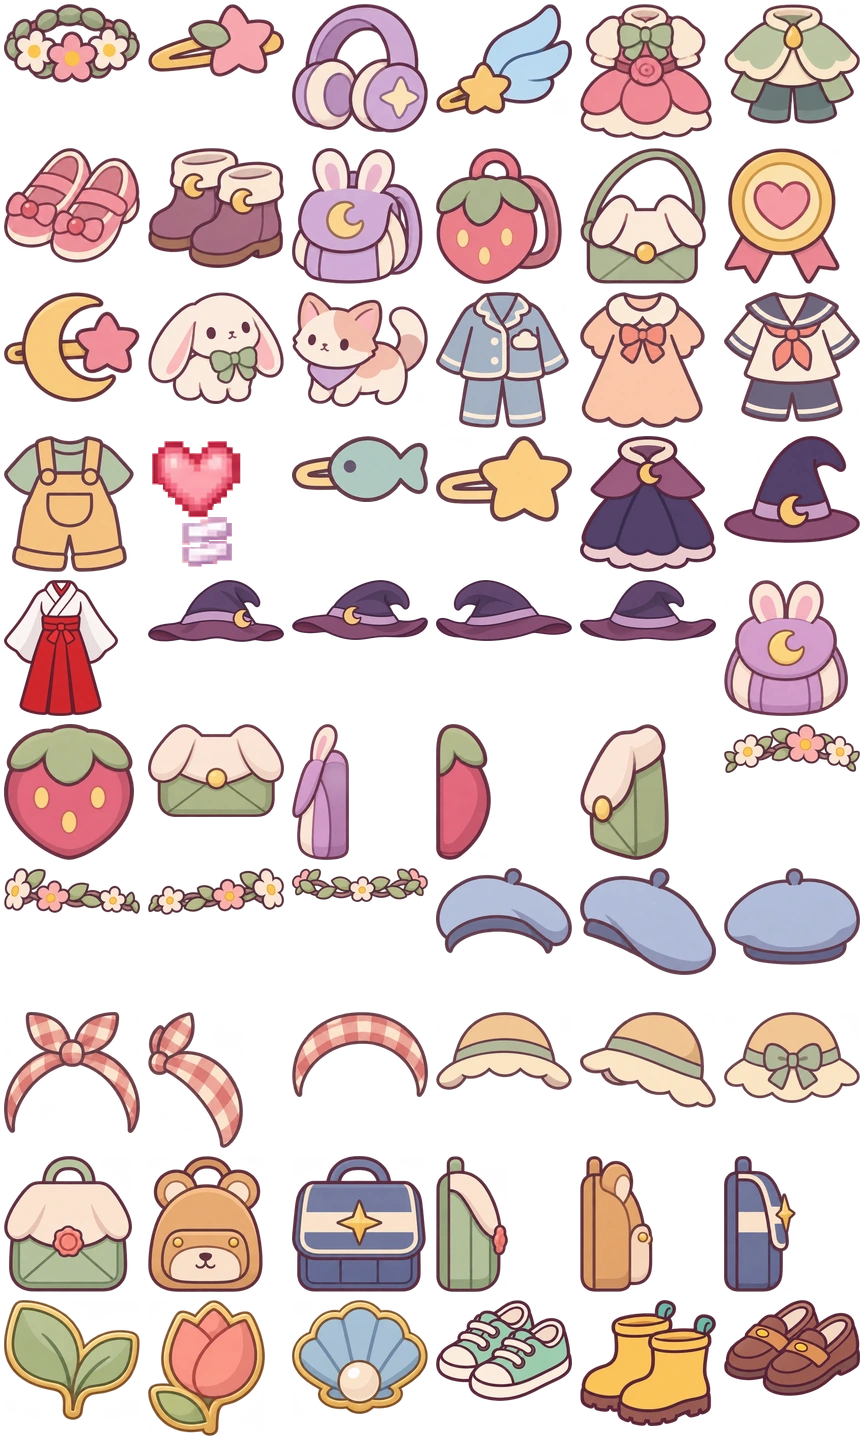
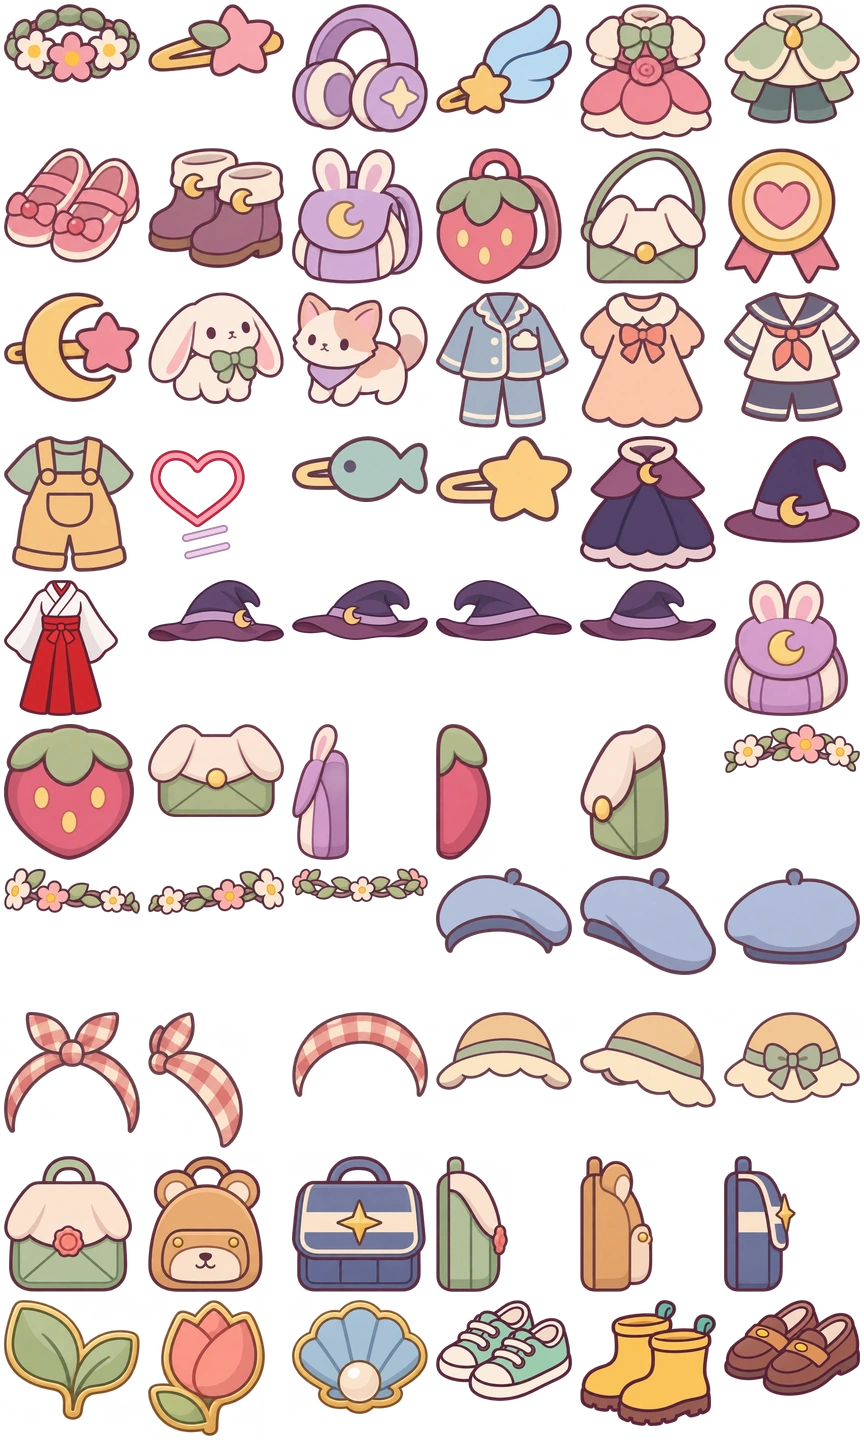
统一佩戴、衣橱和邀请插画上的镂空爱心发夹

Changed region(s): [[0.1562, 0.2812, 0.2812, 0.4062]]

diff --git a/src/items.ts b/src/items.ts
@@ -148,7 +148,7 @@ export const ITEMS: Record<
   apricotNightgown: { name: "杏桃晚安裙", slot: "clothes", description: "圆圆的奶油领下系着一枚小蝴蝶结，裙摆刚好盖过膝头。", source: "初始衣橱" },
   sailorSet: { name: "海盐水手装", slot: "clothes", description: "海军蓝水手领，珊瑚红领巾，一条能迈开步子的短裤。", source: "初始衣橱" },
   honeyOveralls: { name: "麦芽背带裤", slot: "clothes", description: "麦芽色背带裤罩着鼠尾草绿短袖，胸前口袋留给路上捡的小物。", source: "初始衣橱" },
-  heartClip: { name: "爱心发夹", slot: "hair", description: "芙芙常戴的小爱心，下面别着两根淡紫发卡。", source: "初始衣橱" },
+  heartClip: { name: "爱心发夹", slot: "hair", description: "玫红色的心形细框里透出一缕粉发，下面别着两根淡紫发卡。", source: "初始衣橱" },
   fishClip: { name: "小鱼发夹", slot: "hair", description: "一尾薄荷蓝的小鱼游进了发梢。", source: "初始衣橱" },
   starClip: { name: "星星发夹", slot: "hair", description: "一颗蜂蜜金的小星，轻轻别在刘海旁。", source: "初始衣橱" },
   mintSneakers: { name: "薄荷帆布鞋", slot: "shoes", description: "系紧奶白鞋带，沿着石板路散步去。", source: "初始衣橱" },

diff --git a/tests/heart-clip.test.ts b/tests/heart-clip.test.ts
@@ -1,0 +1,23 @@
+import test from "node:test";
+import assert from "node:assert/strict";
+import { fileURLToPath } from "node:url";
+import sharp from "sharp";
+import frames from "../src/wardrobe-icons.json" with { type: "json" };
+
+test("both heart clips keep an open centre and a visible rim at wearable scale", async () => {
+  const atlasFrames: [string, number[]][] = [
+    ["wardrobe-icons.webp", frames.heartClip],
+    ["worn-jewelry.webp", [160, 40, 40, 40]],
+  ];
+  for (const [name, [left, top, width, height]] of atlasFrames) {
+    const alpha = await sharp(fileURLToPath(new URL("../src/assets/" + name, import.meta.url)))
+      .extract({left, top, width, height}).resize(10, 10, {fit:"fill"})
+      .ensureAlpha().extractChannel("alpha").raw().toBuffer();
+    for (const y of [3, 4]) {
+      const row = alpha.subarray(y * 10, (y + 1) * 10);
+      assert.ok(row[4] < 16 && row[5] < 16, name + " must show the hair through its centre");
+      assert.ok(Math.max(...row.subarray(0, 3)) > 120 && Math.max(...row.subarray(7)) > 120,
+        name + " needs a visible rim on both sides of the opening");
+    }
+  }
+});

diff --git a/src/equipment.ts b/src/equipment.ts
@@ -39,8 +39,9 @@ export function equipmentParts(
   walkFrame = 0,
 ): EquipmentPart[] {
   const hair = equipped.hair;
+  const hairSize = hair === "heartClip" ? 10 : 8;
   if (pose === "lying") return hair ? [
-    {id:hair, layer:"front", x:-16.15, y:-10.15, w:8, h:8},
+    {id:hair, layer:"front", x:-12.15-hairSize/2, y:-6.15-hairSize/2, w:hairSize, h:hairSize},
   ] : [];
   if (pose !== "standing") { facing = 0; walkFrame = 0; }
   const shift = pose === "sitting" ? 6 : pose === "bench" ? 3 : 0;
@@ -121,7 +122,7 @@ export function equipmentParts(
   const cap = head === "witchHat" || head === "blueBeret" || head === "strawHat";
   const crownX = facing === 1 ? -3.1 : facing === 2 ? 2.9 : 0;
   if (hair && (facing === 0 || facing === 1)) {
-    const size = hair === "starWings" ? 9 : 8;
+    const size = hair === "starWings" ? 9 : hairSize;
     const center = facing === 0 ? 7.2 : -.6;
     const templeCenter = cap ? -28.2 : -31.6;
     add(hair, "front", center-size/2, templeCenter-size/2 + headShift, size, size);

diff --git a/doc/artwork/ARTWORK-launch.md b/doc/artwork/ARTWORK-launch.md
@@ -10,7 +10,7 @@ Use case: stylized-concept. Standalone pixel-art illustration for an anniversary
 
 ## 手持邀请函的芙芙
 
-小屋前的全身 Q 版芙芙参考了作者提供的三张大头小人图。白色荷叶边发箍托起弧形呆毛，爱心发夹在观者右侧，双眼左绿右玫红。她穿着杏色短裙与粉色搭扣鞋，双手从两侧捧住草莓封印的邀请函。
+小屋前的全身 Q 版芙芙参考了作者提供的三张大头小人图。白色荷叶边发箍托起弧形呆毛，观者右侧的发夹是玫红色镂空心形，中间透出粉色发束，下面并排别着两根细发卡。双眼左绿右玫红。她穿着杏色短裙与粉色搭扣鞋，双手从两侧捧住草莓封印的邀请函。
 
 原画使用 imagegen 生成，保留透明背景，裁去外圈空白后按原比例导出为 `src/launch/launch-fufu.webp`（540 × 675）。在手机上单独调整夜景裁切，人物始终完整显示到鞋尖。
 
